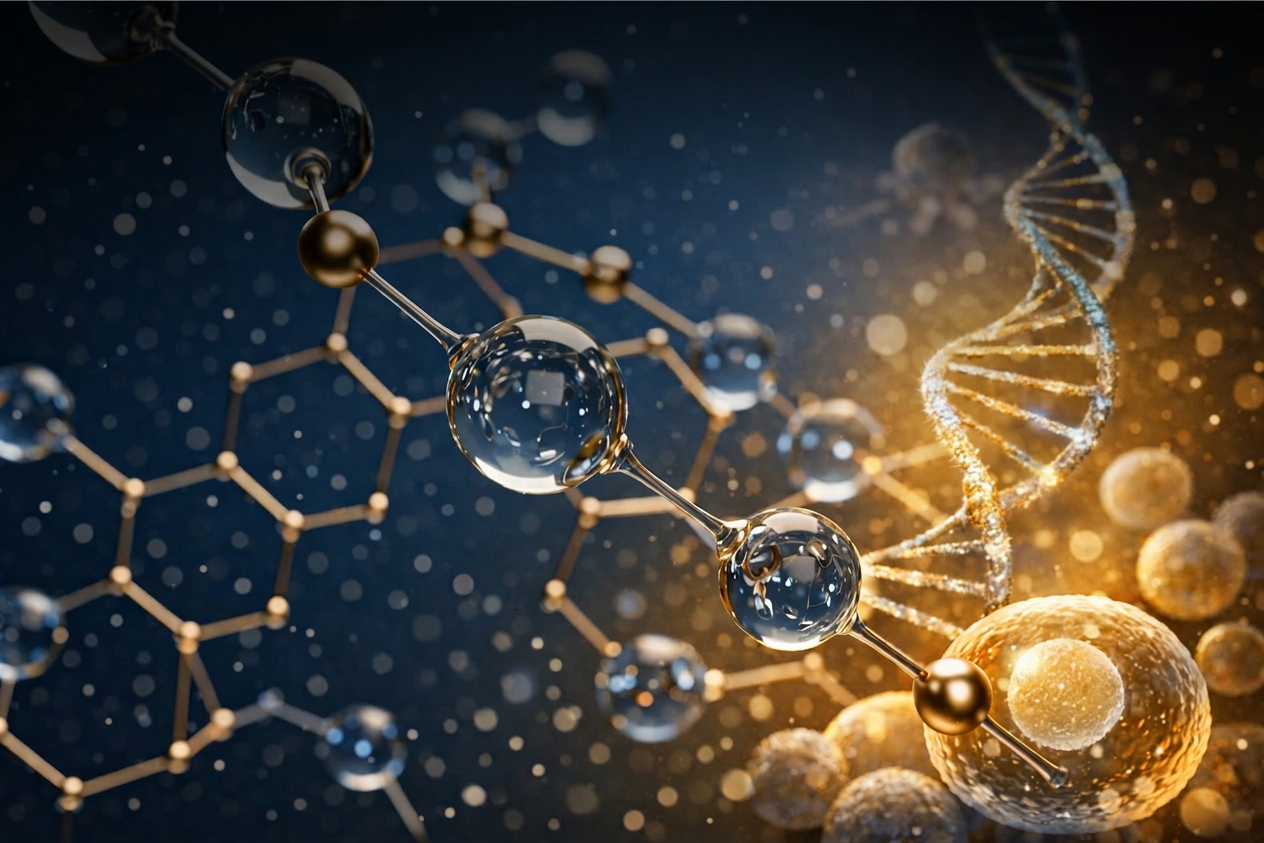
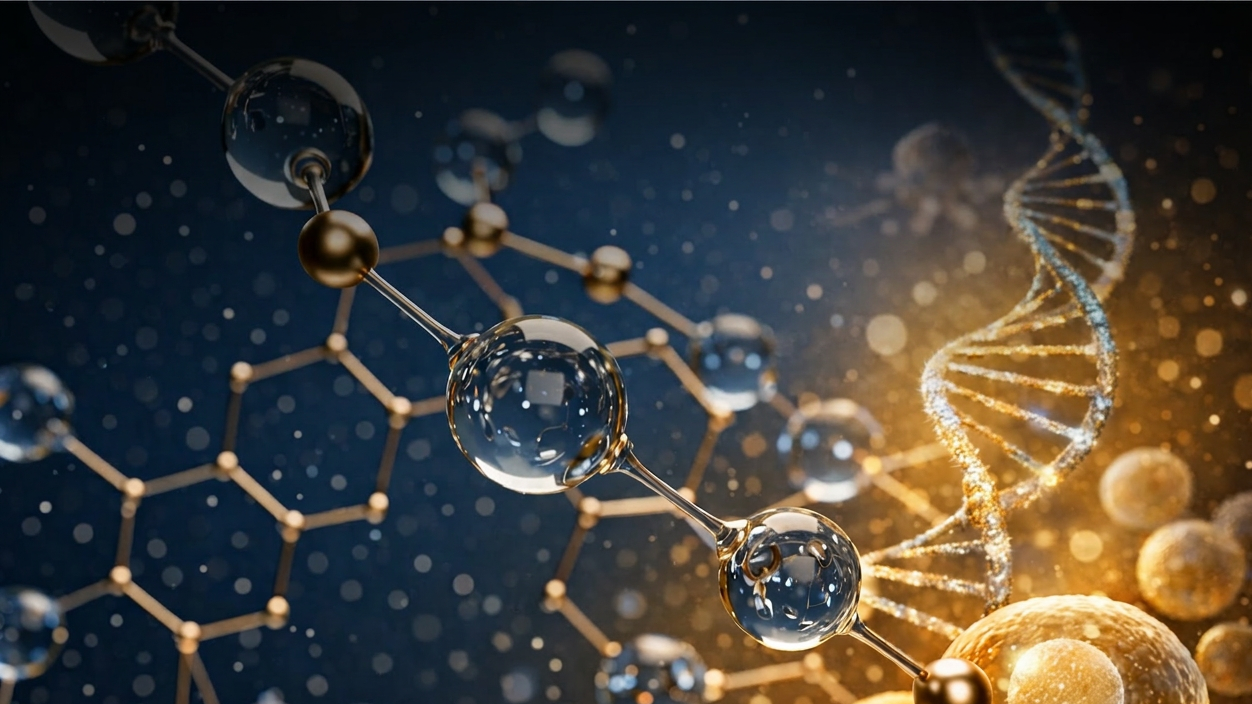
Change image

diff --git a/index.html b/index.html
@@ -336,7 +336,19 @@
                                                     </h1>
                                                     <div class="rs-banner-descrip">
                                                         <p>Interpose Chem manufactures high-quality pharmaceutical intermediates with innovation, 
-                                                            precision, and integrity—supporting safer, effective healthcare worldwide. </p>
+                                                            precision, and integrity—supporting safer, effective healthcare worldwide. 
+                                                            &nbsp;&nbsp;&nbsp;&nbsp;&nbsp;&nbsp;&nbsp;&nbsp;&nbsp;&nbsp;&nbsp;&nbsp;&nbsp;
+                                                            &nbsp;&nbsp;&nbsp;&nbsp;&nbsp;&nbsp;&nbsp;&nbsp;&nbsp;&nbsp;&nbsp;&nbsp;&nbsp;
+                                                            &nbsp;&nbsp;&nbsp;&nbsp;&nbsp;&nbsp;&nbsp;&nbsp;&nbsp;&nbsp;&nbsp;&nbsp;&nbsp;
+                                                            &nbsp;&nbsp;&nbsp;&nbsp;&nbsp;&nbsp;&nbsp;&nbsp;&nbsp;&nbsp;&nbsp;&nbsp;&nbsp;
+                                                            &nbsp;&nbsp;&nbsp;&nbsp;&nbsp;&nbsp;&nbsp;&nbsp;&nbsp;&nbsp;&nbsp;&nbsp;&nbsp;
+                                                            &nbsp;&nbsp;&nbsp;&nbsp;&nbsp;&nbsp;&nbsp;&nbsp;&nbsp;&nbsp;&nbsp;&nbsp;&nbsp;
+                                                            &nbsp;&nbsp;&nbsp;&nbsp;&nbsp;&nbsp;&nbsp;&nbsp;&nbsp;&nbsp;&nbsp;&nbsp;&nbsp;
+                                                            &nbsp;&nbsp;&nbsp;&nbsp;&nbsp;&nbsp;&nbsp;&nbsp;&nbsp;&nbsp;&nbsp;&nbsp;&nbsp;
+                                                            &nbsp;&nbsp;&nbsp;&nbsp;&nbsp;&nbsp;&nbsp;&nbsp;&nbsp;&nbsp;&nbsp;&nbsp;&nbsp;
+                                                            &nbsp;&nbsp;&nbsp;&nbsp;&nbsp;&nbsp;&nbsp;&nbsp;&nbsp;&nbsp;&nbsp;&nbsp;&nbsp;
+                                                            &nbsp;&nbsp;&nbsp;&nbsp;&nbsp;&nbsp;&nbsp;&nbsp;&nbsp;&nbsp;&nbsp;&nbsp;&nbsp;
+                                                        </p>
                                                     </div>
                                                     <div class="rs-banner-btn">
                                                         <a class="rs-btn has-theme-light-blue has-icon has-bg"
